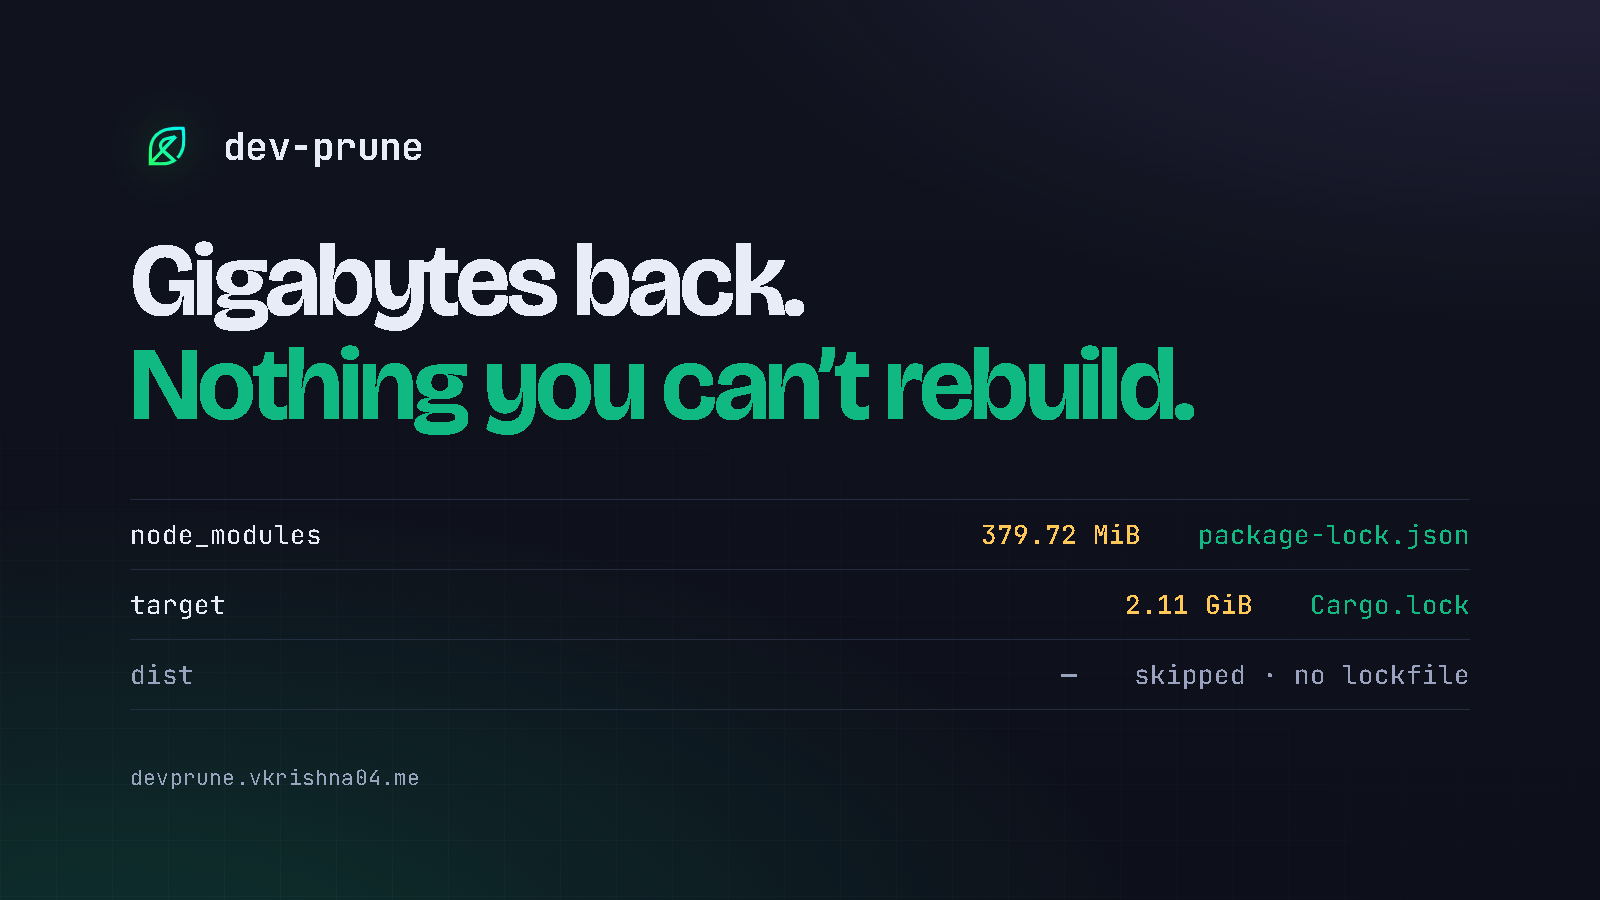
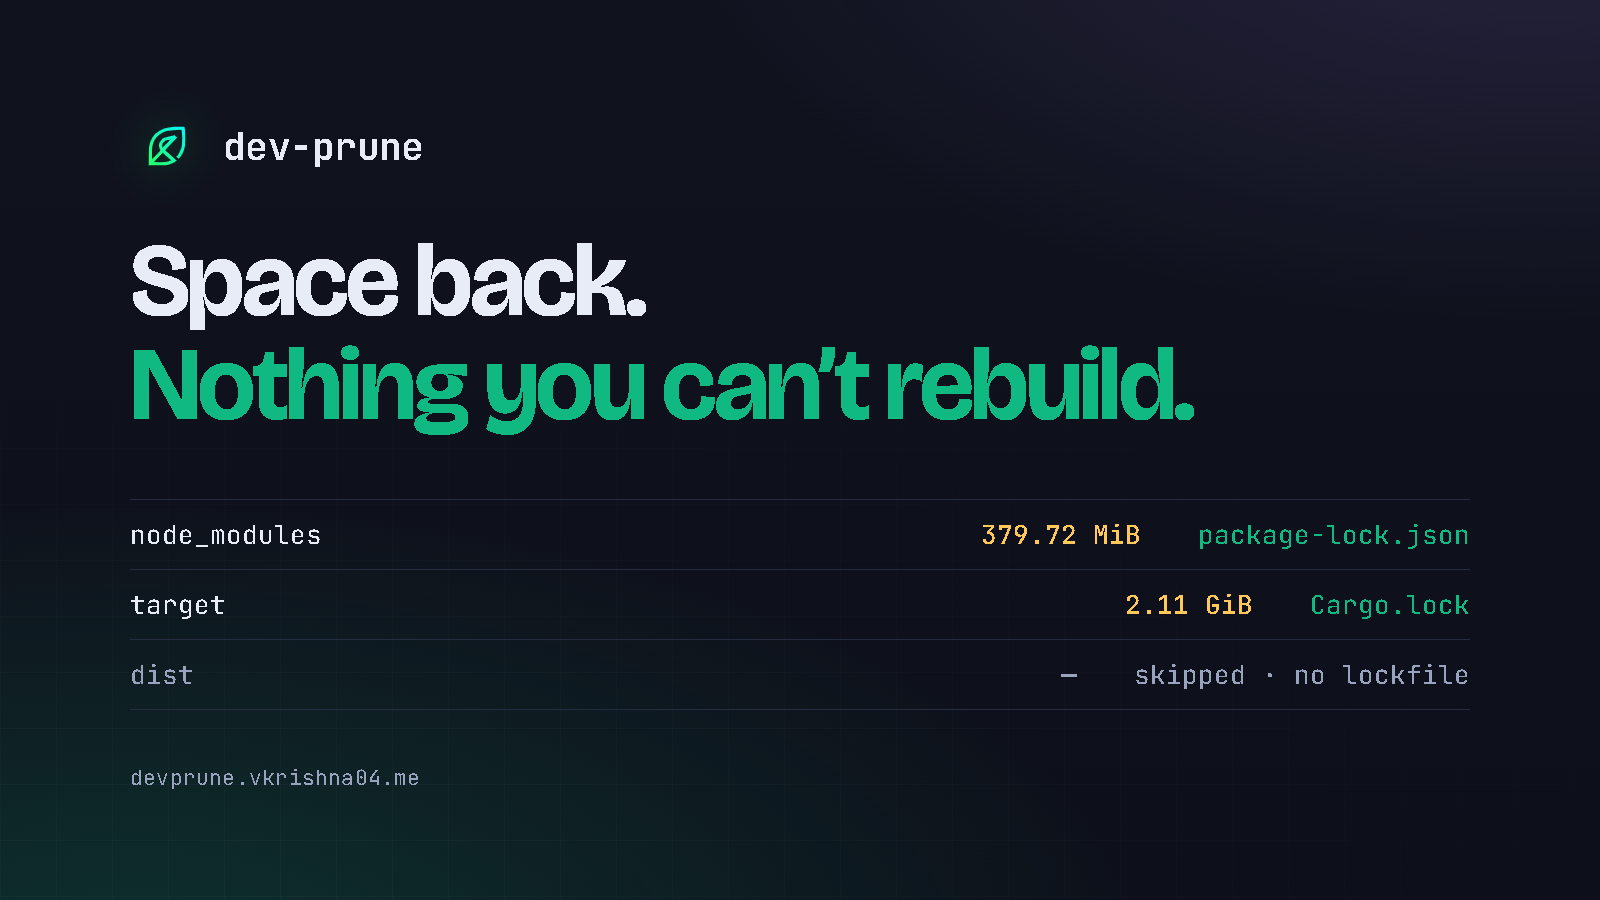
Tagline: Space back. Nothing you can't rebuild.

Changed region(s): [[0.0625, 0.2489, 0.5, 0.3733]]

diff --git a/site/banners/index.html b/site/banners/index.html
@@ -25,7 +25,7 @@
           <span>dev-prune</span>
         </div>
         <h1 class="head">
-          <span>Gigabytes back.</span>
+          <span>Space back.</span>
           <span class="b">Nothing you can&rsquo;t rebuild.</span>
         </h1>
         <div class="ledger">
@@ -57,7 +57,7 @@
           <span>dev-prune</span>
         </div>
         <h1 class="head">
-          <span>Gigabytes back.</span>
+          <span>Space back.</span>
           <span class="b">Nothing you can&rsquo;t rebuild.</span>
         </h1>
         <div class="ledger">
@@ -89,7 +89,7 @@
           <span>dev-prune</span>
         </div>
         <h1 class="head">
-          <span>Gigabytes back.</span>
+          <span>Space back.</span>
           <span class="b">Nothing you can&rsquo;t rebuild.</span>
         </h1>
         <div class="ledger">

diff --git a/site/index.html b/site/index.html
@@ -54,7 +54,7 @@
     <meta property="og:image:height" content="630" />
     <meta
       property="og:image:alt"
-      content="dev-prune — gigabytes back, nothing you can’t rebuild"
+      content="dev-prune — space back, nothing you can’t rebuild"
     />
     <meta property="og:locale" content="en_US" />
 
@@ -75,7 +75,7 @@
     />
     <meta
       name="twitter:image:alt"
-      content="dev-prune — gigabytes back, nothing you can’t rebuild"
+      content="dev-prune — space back, nothing you can’t rebuild"
     />
 
     <!-- Favicons.

diff --git a/site/src/App.jsx b/site/src/App.jsx
@@ -1371,7 +1371,7 @@ Notes you should rely on, not work around:
                 analytics
               </div>
               <h1 className="hero-title">
-                Gigabytes back.
+                Space back.
                 <br />
                 <span className="gradient-text">
                   Nothing you can&rsquo;t rebuild.

diff --git a/wiki/Home.md b/wiki/Home.md
@@ -1,7 +1,7 @@
 # dev-prune (`devp`)
 
 <p align="center">
-  <img src="https://raw.githubusercontent.com/Life-Experimentalist/dev-prune/main/assets/github-readme-banner.png" alt="dev-prune — gigabytes back, nothing you can't rebuild" width="800" />
+  <img src="https://raw.githubusercontent.com/Life-Experimentalist/dev-prune/main/assets/github-readme-banner.png" alt="dev-prune — space back, nothing you can't rebuild" width="800" />
 </p>
 
 **Universal, lockfile-safe workspace pruner.** Reclaims disk space from idle Git

diff --git a/README.md b/README.md
@@ -1,10 +1,10 @@
 <div align="center">
 
-<img src="assets/github-readme-banner.png" alt="dev-prune — gigabytes back, nothing you can't rebuild" width="820" />
+<img src="assets/github-readme-banner.png" alt="dev-prune — space back, nothing you can't rebuild" width="820" />
 
 # `dev-prune`
 
-### Gigabytes back. Nothing you can't rebuild.
+### Space back. Nothing you can't rebuild.
 
 **Reclaim the disk space your idle repositories are sitting on — without ever deleting
 something a lockfile cannot put back.**

diff --git a/docs/architecture/LLD.md b/docs/architecture/LLD.md
@@ -5,7 +5,7 @@ This document defines the Low-Level Design (LLD) specification for **`dev-prune`
 ---
 
 <p align="center">
-  <img src="../../assets/github-readme-banner.png" alt="dev-prune — gigabytes back, nothing you can't rebuild" width="800" />
+  <img src="../../assets/github-readme-banner.png" alt="dev-prune — space back, nothing you can't rebuild" width="800" />
 </p>
 
 ---

diff --git a/docs/troubleshooting/CORRUPTION_AND_EDGE_CASES.md b/docs/troubleshooting/CORRUPTION_AND_EDGE_CASES.md
@@ -5,7 +5,7 @@ This guide addresses edge-case scenarios, state file recovery, symlink handling,
 ---
 
 <p align="center">
-  <img src="../../assets/github-readme-banner.png" alt="dev-prune — gigabytes back, nothing you can't rebuild" width="800" />
+  <img src="../../assets/github-readme-banner.png" alt="dev-prune — space back, nothing you can't rebuild" width="800" />
 </p>
 
 ---

diff --git a/docs/troubleshooting/DAEMON_AND_HOOKS.md b/docs/troubleshooting/DAEMON_AND_HOOKS.md
@@ -5,7 +5,7 @@ This guide provides diagnostics and fix procedures for OS background schedulers 
 ---
 
 <p align="center">
-  <img src="../../assets/github-readme-banner.png" alt="dev-prune — gigabytes back, nothing you can't rebuild" width="800" />
+  <img src="../../assets/github-readme-banner.png" alt="dev-prune — space back, nothing you can't rebuild" width="800" />
 </p>
 
 ---

diff --git a/docs/troubleshooting/INSTALLATION_ISSUES.md b/docs/troubleshooting/INSTALLATION_ISSUES.md
@@ -5,7 +5,7 @@ This document addresses all potential issues related to installing **`dev-prune`
 ---
 
 <p align="center">
-  <img src="../../assets/github-readme-banner.png" alt="dev-prune — gigabytes back, nothing you can't rebuild" width="800" />
+  <img src="../../assets/github-readme-banner.png" alt="dev-prune — space back, nothing you can't rebuild" width="800" />
 </p>
 
 ---

diff --git a/docs/troubleshooting/LOCKFILE_AND_ADAPTERS.md b/docs/troubleshooting/LOCKFILE_AND_ADAPTERS.md
@@ -5,7 +5,7 @@ This guide details diagnostics, configuration overrides, and fix command workflo
 ---
 
 <p align="center">
-  <img src="../../assets/github-readme-banner.png" alt="dev-prune — gigabytes back, nothing you can't rebuild" width="800" />
+  <img src="../../assets/github-readme-banner.png" alt="dev-prune — space back, nothing you can't rebuild" width="800" />
 </p>
 
 ---

diff --git a/docs/troubleshooting/UNINSTALL_AND_REINSTALL.md b/docs/troubleshooting/UNINSTALL_AND_REINSTALL.md
@@ -5,7 +5,7 @@ This document details procedures for standard uninstallation, deep configuration
 ---
 
 <p align="center">
-  <img src="../../assets/github-readme-banner.png" alt="dev-prune — gigabytes back, nothing you can't rebuild" width="800" />
+  <img src="../../assets/github-readme-banner.png" alt="dev-prune — space back, nothing you can't rebuild" width="800" />
 </p>
 
 ---

diff --git a/docs/ROADMAP.md b/docs/ROADMAP.md
@@ -1,7 +1,7 @@
 # Roadmap
 
 <p align="center">
-  <img src="../assets/github-readme-banner.png" alt="dev-prune — gigabytes back, nothing you can't rebuild" width="800" />
+  <img src="../assets/github-readme-banner.png" alt="dev-prune — space back, nothing you can't rebuild" width="800" />
 </p>
 
 Everything else in `docs/` describes what the code does **now** — that rule is in
